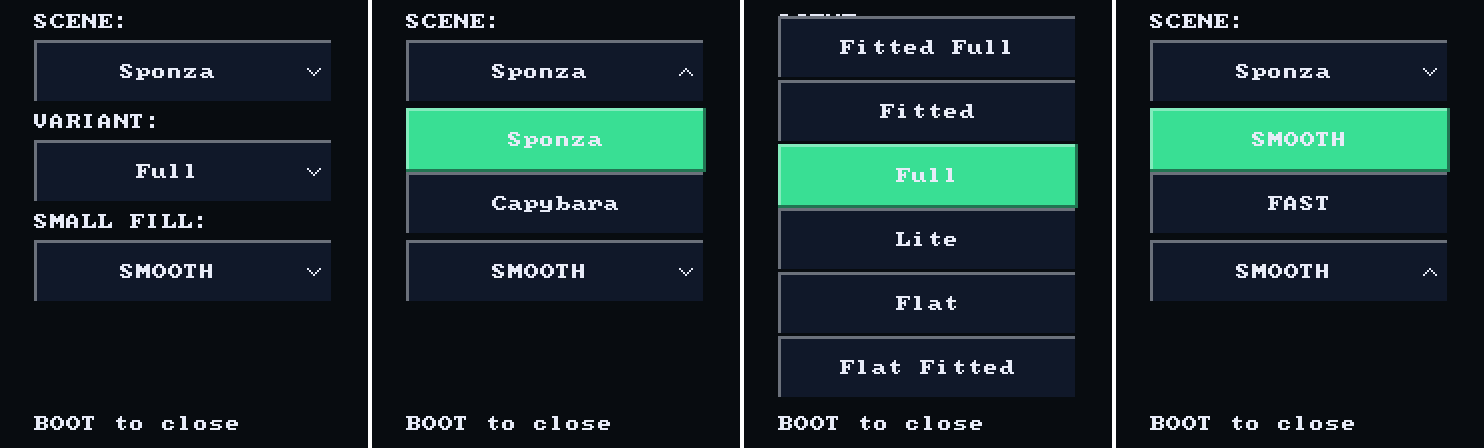
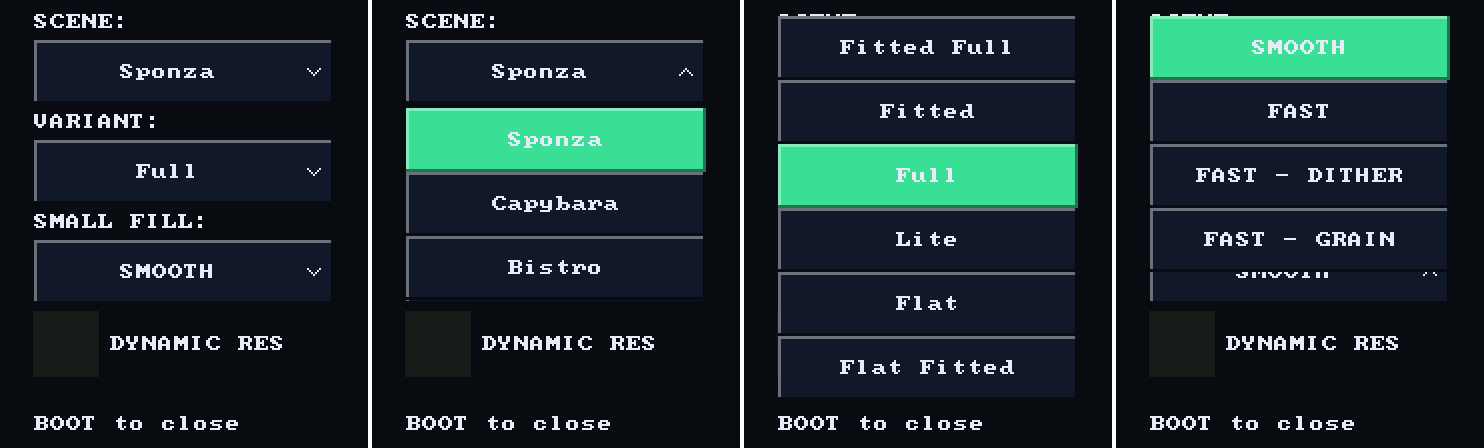
render_lab: FAST - DITHER and FAST - GRAIN in the SMALL FILL menu (autana-5gz5m)
SMALL_FILL_FAST_DITHER and SMALL_FILL_FAST_GRAIN keep FAST's ceiling and
gate with the DITHER or GRAIN style. The menu labels come from the preset
names, each '_' shown as ' - '.

diff --git a/launcher/main/apps/render_lab/render_lab_view.c b/launcher/main/apps/render_lab/render_lab_view.c
@@ -1,5 +1,7 @@
 #include "apps/render_lab/render_lab_view.h"
 
+#include <string.h>
+
 #include "services/tune.h"
 
 TUNE_OWNER(render_lab);
@@ -39,17 +41,34 @@ render_lab_small_fill(void) {
 }
 
 #if TUNE_ENABLED
-#define SMALL_FILL_PRESET_ROW(name)  SMALL_FILL_##name,
-#define SMALL_FILL_PRESET_NAME(name) #name,
+#define SMALL_FILL_PRESET_ROW(name)   SMALL_FILL_##name,
+#define SMALL_FILL_PRESET_NAME(name)  #name,
+/* A menu label is the preset name with each '_' shown as the separator; its buffer fits a name of only '_'. */
+#define SMALL_FILL_LABEL_SEPARATOR    " - "
+#define SMALL_FILL_PRESET_LABEL(name) char name[sizeof #name * (sizeof SMALL_FILL_LABEL_SEPARATOR - 1)];
 static const small_fill_t small_fill_presets[] = {SMALL_FILL_PRESETS(SMALL_FILL_PRESET_ROW)};
-static const char* const small_fill_names[] = {SMALL_FILL_PRESETS(SMALL_FILL_PRESET_NAME)};
+static const char* const small_fill_preset_names[] = {SMALL_FILL_PRESETS(SMALL_FILL_PRESET_NAME)};
 #define SMALL_FILL_PRESET_COUNT ((int)(sizeof small_fill_presets / sizeof small_fill_presets[0]))
+static char small_fill_labels[SMALL_FILL_PRESET_COUNT][sizeof(union {SMALL_FILL_PRESETS(SMALL_FILL_PRESET_LABEL)})];
+static const char* small_fill_names[SMALL_FILL_PRESET_COUNT];
 static int small_fill_picked;
 
 const char* const*
 render_lab_small_fill_names(int* count) {
+    for (int i = 0; i < SMALL_FILL_PRESET_COUNT && small_fill_names[i] == NULL; i++) {
+        char* label = small_fill_labels[i];
+        for (const char* c = small_fill_preset_names[i]; *c != '\0'; c++) {
+            if (*c == '_') {
+                memcpy(label, SMALL_FILL_LABEL_SEPARATOR, sizeof SMALL_FILL_LABEL_SEPARATOR - 1);
+                label += sizeof SMALL_FILL_LABEL_SEPARATOR - 1;
+            } else {
+                *label++ = *c;
+            }
+        }
+        small_fill_names[i] = small_fill_labels[i];
+    }
     *count = SMALL_FILL_PRESET_COUNT;
-    return small_fill_names;
+    return (const char* const*)small_fill_names;
 }
 
 int

diff --git a/launcher/main/apps/render_lab/tests/suite_render_size.c b/launcher/main/apps/render_lab/tests/suite_render_size.c
@@ -78,6 +78,9 @@ test_small_fill_menu_choice_moves_the_tunables(void) {
     const char* const* names = render_lab_small_fill_names(&count);
     TEST_ASSERT_EQUAL_STRING("SMOOTH", names[0]);
     TEST_ASSERT_EQUAL_STRING("FAST", names[1]);
+    TEST_ASSERT_EQUAL_STRING("FAST - DITHER", names[2]);
+    TEST_ASSERT_EQUAL_STRING("FAST - GRAIN", names[3]);
+    TEST_ASSERT_EQUAL_INT(4, count);
     TEST_ASSERT_EQUAL_INT(0, render_lab_small_fill_selected());
 
     TEST_ASSERT_TRUE(render_lab_small_fill_select(1));
@@ -90,8 +93,16 @@ test_small_fill_menu_choice_moves_the_tunables(void) {
     TEST_ASSERT_FALSE(render_lab_small_fill_select(count));
     TEST_ASSERT_EQUAL_INT(1, render_lab_small_fill_selected());
 
+    TEST_ASSERT_TRUE(render_lab_small_fill_select(2));
+    TEST_ASSERT_EQUAL_INT(SMALL_FILL_FAST_DITHER.ceiling, render_lab_small_fill().ceiling);
+    TEST_ASSERT_EQUAL_INT(SMALL_FILL_FAST_DITHER.gate, render_lab_small_fill().gate);
+    TEST_ASSERT_EQUAL_INT(SMALL_FILL_DITHER, render_lab_small_fill().style);
+    TEST_ASSERT_TRUE(render_lab_small_fill_select(3));
+    TEST_ASSERT_EQUAL_INT(SMALL_FILL_GRAIN, render_lab_small_fill().style);
+
     TEST_ASSERT_TRUE(render_lab_small_fill_select(0));
     TEST_ASSERT_EQUAL_INT(SMALL_FILL_CEILING_SMOOTH, render_lab_small_fill().ceiling);
+    TEST_ASSERT_EQUAL_INT(SMALL_FILL_FLAT, render_lab_small_fill().style);
     fixture();
 }
 

diff --git a/launcher/main/render/render_view.h b/launcher/main/render/render_view.h
@@ -19,9 +19,11 @@ typedef enum { SMALL_FILL_FLAT, SMALL_FILL_GRAIN, SMALL_FILL_DITHER, SMALL_FILL_
 #define SMALL_FILL_GATE_FAST      16
 #define SMALL_FILL_SMOOTH         ((small_fill_t){SMALL_FILL_CEILING_SMOOTH, SMALL_FILL_GATE_SMOOTH, SMALL_FILL_FLAT})
 #define SMALL_FILL_FAST           ((small_fill_t){SMALL_FILL_CEILING_FAST, SMALL_FILL_GATE_FAST, SMALL_FILL_FLAT})
+#define SMALL_FILL_FAST_DITHER    ((small_fill_t){SMALL_FILL_CEILING_FAST, SMALL_FILL_GATE_FAST, SMALL_FILL_DITHER})
+#define SMALL_FILL_FAST_GRAIN     ((small_fill_t){SMALL_FILL_CEILING_FAST, SMALL_FILL_GATE_FAST, SMALL_FILL_GRAIN})
 
 /* Every SMALL_FILL_<name> preset, for a list that has to cover them all: X(name) each. */
-#define SMALL_FILL_PRESETS(X)     X(SMOOTH) X(FAST)
+#define SMALL_FILL_PRESETS(X)     X(SMOOTH) X(FAST) X(FAST_DITHER) X(FAST_GRAIN)
 
 typedef struct {
     uint8_t ceiling;          /* largest bounding-box side in pixel centres; 0 disables small fill */

diff --git a/docs/Shared-Helpers.md b/docs/Shared-Helpers.md
@@ -143,7 +143,7 @@ Search the [generated catalogue](#catalogue) for an existing owner before writin
 | [launcher/main/render/raster_motion.h](../launcher/main/render/raster_motion.h) | raster_motion: previous-position offsets from view depth and previous instance models, in current-picture pixels so resolution changes need no conversion. | `RASTER_MOTION_INSTANCES_MAX, RASTER_MOTION_UNKNOWN, raster_motion_forget, raster_motion_px_t, raster_motion_t, raster_motion_view` |
 | [launcher/main/render/raster_show.h](../launcher/main/render/raster_show.h) | raster_show: development views paint colour from the raster maps. | `RASTER_SHOW_TILE, raster_depth_tiles_view, raster_depth_view, raster_show, raster_show_map` |
 | [launcher/main/render/raster_split.h](../launcher/main/render/raster_split.h) | raster_split: caller-owned, damped feedback for each instance's top draw share. | `RASTER_SPLIT_EVEN, RASTER_SPLIT_INSTANCES, RASTER_SPLIT_MAX, RASTER_SPLIT_MIN, RASTER_SPLIT_PERMILLE, raster_split_forget, raster_split_t, raster_split_update` |
-| [launcher/main/render/render_view.h](../launcher/main/render/render_view.h) | render_view: one frame's world-to-picture basis and perspective fit. | `CAMERA_PRESENT_DOUBLE, CAMERA_PRESENT_NEAREST, CAMERA_PRESENT_SCANLINE, SMALL_FILL_CEILING_FAST, SMALL_FILL_CEILING_MAX, SMALL_FILL_CEILING_SMOOTH, SMALL_FILL_DITHER, SMALL_FILL_FAST, SMALL_FILL_FLAT, SMALL_FILL_GATE_FAST, SMALL_FILL_GATE_SMOOTH, SMALL_FILL_GRAIN, SMALL_FILL_PRESETS, SMALL_FILL_SMOOTH, SMALL_FILL_STYLE_COUNT, camera_present_t, render_view_make, render_view_refit, render_view_t, small_fill_style_t, small_fill_t` |
+| [launcher/main/render/render_view.h](../launcher/main/render/render_view.h) | render_view: one frame's world-to-picture basis and perspective fit. | `CAMERA_PRESENT_DOUBLE, CAMERA_PRESENT_NEAREST, CAMERA_PRESENT_SCANLINE, SMALL_FILL_CEILING_FAST, SMALL_FILL_CEILING_MAX, SMALL_FILL_CEILING_SMOOTH, SMALL_FILL_DITHER, SMALL_FILL_FAST, SMALL_FILL_FAST_DITHER, SMALL_FILL_FAST_GRAIN, SMALL_FILL_FLAT, SMALL_FILL_GATE_FAST, SMALL_FILL_GATE_SMOOTH, SMALL_FILL_GRAIN, SMALL_FILL_PRESETS, SMALL_FILL_SMOOTH, SMALL_FILL_STYLE_COUNT, camera_present_t, render_view_make, render_view_refit, render_view_t, small_fill_style_t, small_fill_t` |
 | [launcher/main/render/resolution/resolution.h](../launcher/main/render/resolution/resolution.h) | resolution: dynamic resolution, the render size picked per frame to hold a frame-cost budget. | `RESOLUTION_STEPS_MAX, RESOLUTION_WINDOW_MAX, resolution_config, resolution_config_t, resolution_control_init, resolution_control_t, resolution_control_update, resolution_model_fit, resolution_model_predict_us, resolution_model_t, resolution_predict_choose, resolution_predict_init, resolution_predict_measured, resolution_predict_t, resolution_sample_t, resolution_step_t` |
 | [launcher/main/render/skin/r3d_skin_light.h](../launcher/main/render/skin/r3d_skin_light.h) | Per-vertex albedo lighting in world space. | `R3D_SKIN_LIGHT_BYTE_SCALE, R3D_SKIN_LIGHT_CHANNELS, R3D_SKIN_LIGHT_DECODE_SHIFT, R3D_SKIN_LIGHT_DECODE_SIZE, R3D_SKIN_LIGHT_FLOAT_BIAS, R3D_SKIN_LIGHT_FLOAT_MANTISSA_BITS, R3D_SKIN_LIGHT_GAMMA, R3D_SKIN_LIGHT_IRRADIANCE_MAX, R3D_SKIN_LIGHT_IRRADIANCE_MIN, R3D_SKIN_LIGHT_MAX, R3D_SKIN_LIGHT_RADIANCE_BITS, R3D_SKIN_LIGHT_RADIANCE_FIRST, R3D_SKIN_LIGHT_RADIANCE_LOW_BITS, R3D_SKIN_LIGHT_RADIANCE_LOW_FIRST, R3D_SKIN_LIGHT_RADIANCE_LOW_SHIFT, R3D_SKIN_LIGHT_RADIANCE_LOW_SIZE, R3D_SKIN_LIGHT_RADIANCE_MAX_EXP, R3D_SKIN_LIGHT_RADIANCE_MIN_EXP, R3D_SKIN_LIGHT_RADIANCE_SHIFT, R3D_SKIN_LIGHT_RADIANCE_SIZE, R3D_SKIN_LIGHT_RADIANCE_SPLIT, R3D_SKIN_LIGHT_RADIANCE_SPLIT_EXP, R3D_SKIN_LIGHT_TABLE_BITS, R3D_SKIN_LIGHT_TABLE_CELLS, R3D_SKIN_LIGHT_TABLE_MASK, R3D_SKIN_LIGHT_TABLE_SIDE, R3D_SKIN_LIGHT_TABLE_WEIGHT_BITS, R3D_SKIN_LIGHT_TABLE_WEIGHT_ONE, r3d_skin_clusters_lit, r3d_skin_clusters_renormalised, r3d_skin_clusters_table, r3d_skin_light_kernel_t, r3d_skin_light_table_build, r3d_skin_light_table_sample, r3d_skin_light_table_t, r3d_skin_light_transfer_build, r3d_skin_light_transfer_t, r3d_skin_lights_t, r3d_skin_normal_palette` |
 | [launcher/main/render/skin/r3d_skin_light_internal.h](../launcher/main/render/skin/r3d_skin_light_internal.h) | Transfer tables avoid powers and divisions in the vertex loop. | `light_bits_float, light_decode, light_encode, light_evaluate, light_float_bits, light_irradiance, light_renormalise, light_shade` |

diff --git a/docs/render/Mesh-Rendering.md b/docs/render/Mesh-Rendering.md
@@ -345,6 +345,7 @@ fills its spans without those clamps, which would change nothing there.
 
 Cameras start with `SMALL_FILL_SMOOTH` (4/0 FLAT), preserving the smooth rendering checksum.
 Apps opt into `SMALL_FILL_FAST` (12/16 FLAT) for the measured frame-cost gains.
+`SMALL_FILL_FAST_DITHER` and `SMALL_FILL_FAST_GRAIN` keep its ceiling and gate with the DITHER or GRAIN style.
 Eligible triangles skip plane setup and use one depth, with colour from the camera's style.
 The camera owns the bounding-box ceiling, colour gate and style;
 `render_view_t.small_fill` carries them to the frame's row workers.
@@ -357,7 +358,7 @@ The camera owns the bounding-box ceiling, colour gate and style;
 | `style` | 0..2 | 0 | FLAT (0), GRAIN (1), DITHER (2) |
 <!-- /generated: small-fill-levers -->
 
-Both presets are defined in `render_view.h`. Opt in with the
+The presets are defined in `render_view.h`. Opt in with the
 [scene camera API](Scene-Manager.md#what-an-app-calls), or pass custom `small_fill_t` values:
 
 ```c
